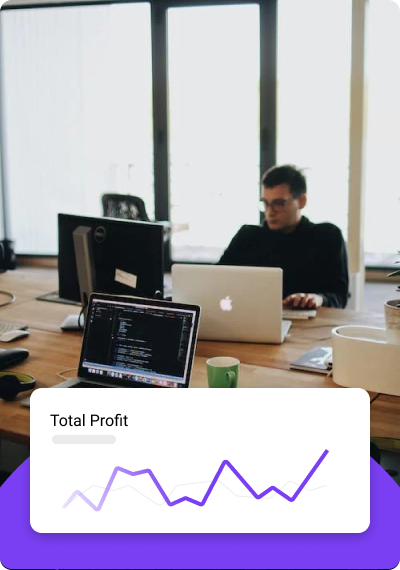
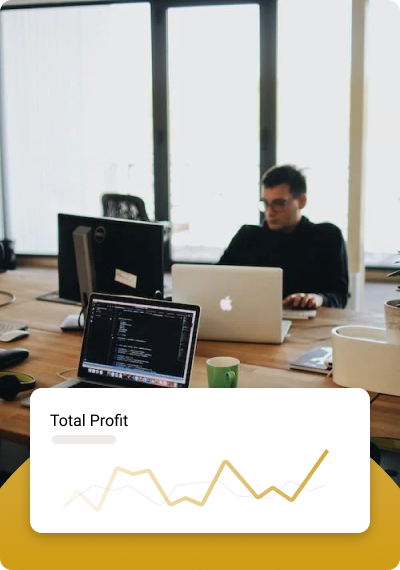
rrvrver
sfrfre

diff --git a/src/components/Home/Home.js b/src/components/Home/Home.js
@@ -7,6 +7,7 @@ import img5 from '../../assets/Group 28.png'
 import img6 from '../../assets/Group 29.png'
 import img7 from '../../assets/Group 36.png'
 import img9 from '../../assets/Group 40.png'
+import img10 from '../../assets/visibility.png'
 import img8 from '../../assets/rocket_launch.png'
 
 
@@ -161,7 +162,7 @@ const Home = () => {
 
             <div className='row ps-5'>
                 <div className='col-6'>
-                <a href="#" class="btne btn-brands">PreneurBay’s Terminal</a>
+                <a href="#" class="btne btn-brands text-center pr-3" style={{ color: '#D1AB49' }}>PreneurBay’s Terminal</a>
                 <h1 className='cont mt-5'>Connecting Cities <br/> Internationally</h1>
                 </div>
                 <div className='col-lg-6 pt-5 mt-5'>
@@ -208,7 +209,7 @@ const Home = () => {
            <div className='row mist mt-5 ols1 '>
                 <div className='col-lg-4'>
                 <div className='pu1'>
-                   <img  className='m-5 kp1' src={img8}/>
+                   <img  className='m-5 kp1' src={img10}/>
                 </div>
                 </div>
                 <div className='col-lg-8 p-5 mt-5'>

diff --git a/src/components/Home/Home.css b/src/components/Home/Home.css
@@ -219,6 +219,19 @@ text-align: center;
 color: #FFFFFF;
           }
 
+          .btne {
+            display: flex;
+            flex-direction: row;
+            align-items: flex-start;
+            padding: 10px;
+            gap: 10px;
+            width: 237px;
+            height: 44px;
+            background: linear-gradient(180deg, rgba(209, 171, 73, 0.1) 0%, rgba(209, 156, 21, 0.1) 100%);
+            border-radius: 4px;
+            color: linear-gradient(180deg, #D1AB49 0%, #D19C15 100%);;
+        }
+
 .line{
   width: 80px;
   height: 4px;
@@ -323,21 +336,18 @@ color: #FFFFFF;
 
 }
 
-.text{
+.text {
   display: flex;
   flex-direction: column;
   align-items: flex-start;
   padding: 30px;
   gap: 10px;
   isolation: isolate;
-
   width: 480px;
   height: 228px;
-
-  background: #F9F4FF;
-  border-bottom: 2px solid rgba(132, 48, 218, 0.29);
+  background: #fff9f4;
+  border-bottom: 2px solid rgba(209, 171, 73, 0.2) rgba(209, 156, 21, 0.2);
   border-radius: 12px 12px 0px 0px;
-
 }
 
 .texts{
@@ -549,6 +559,7 @@ right: 20%;
 }
 
 .ols{
-  padding-bottom: 220px;
+  padding-top: 120px;
+  padding-bottom: 180px;
 }
 
